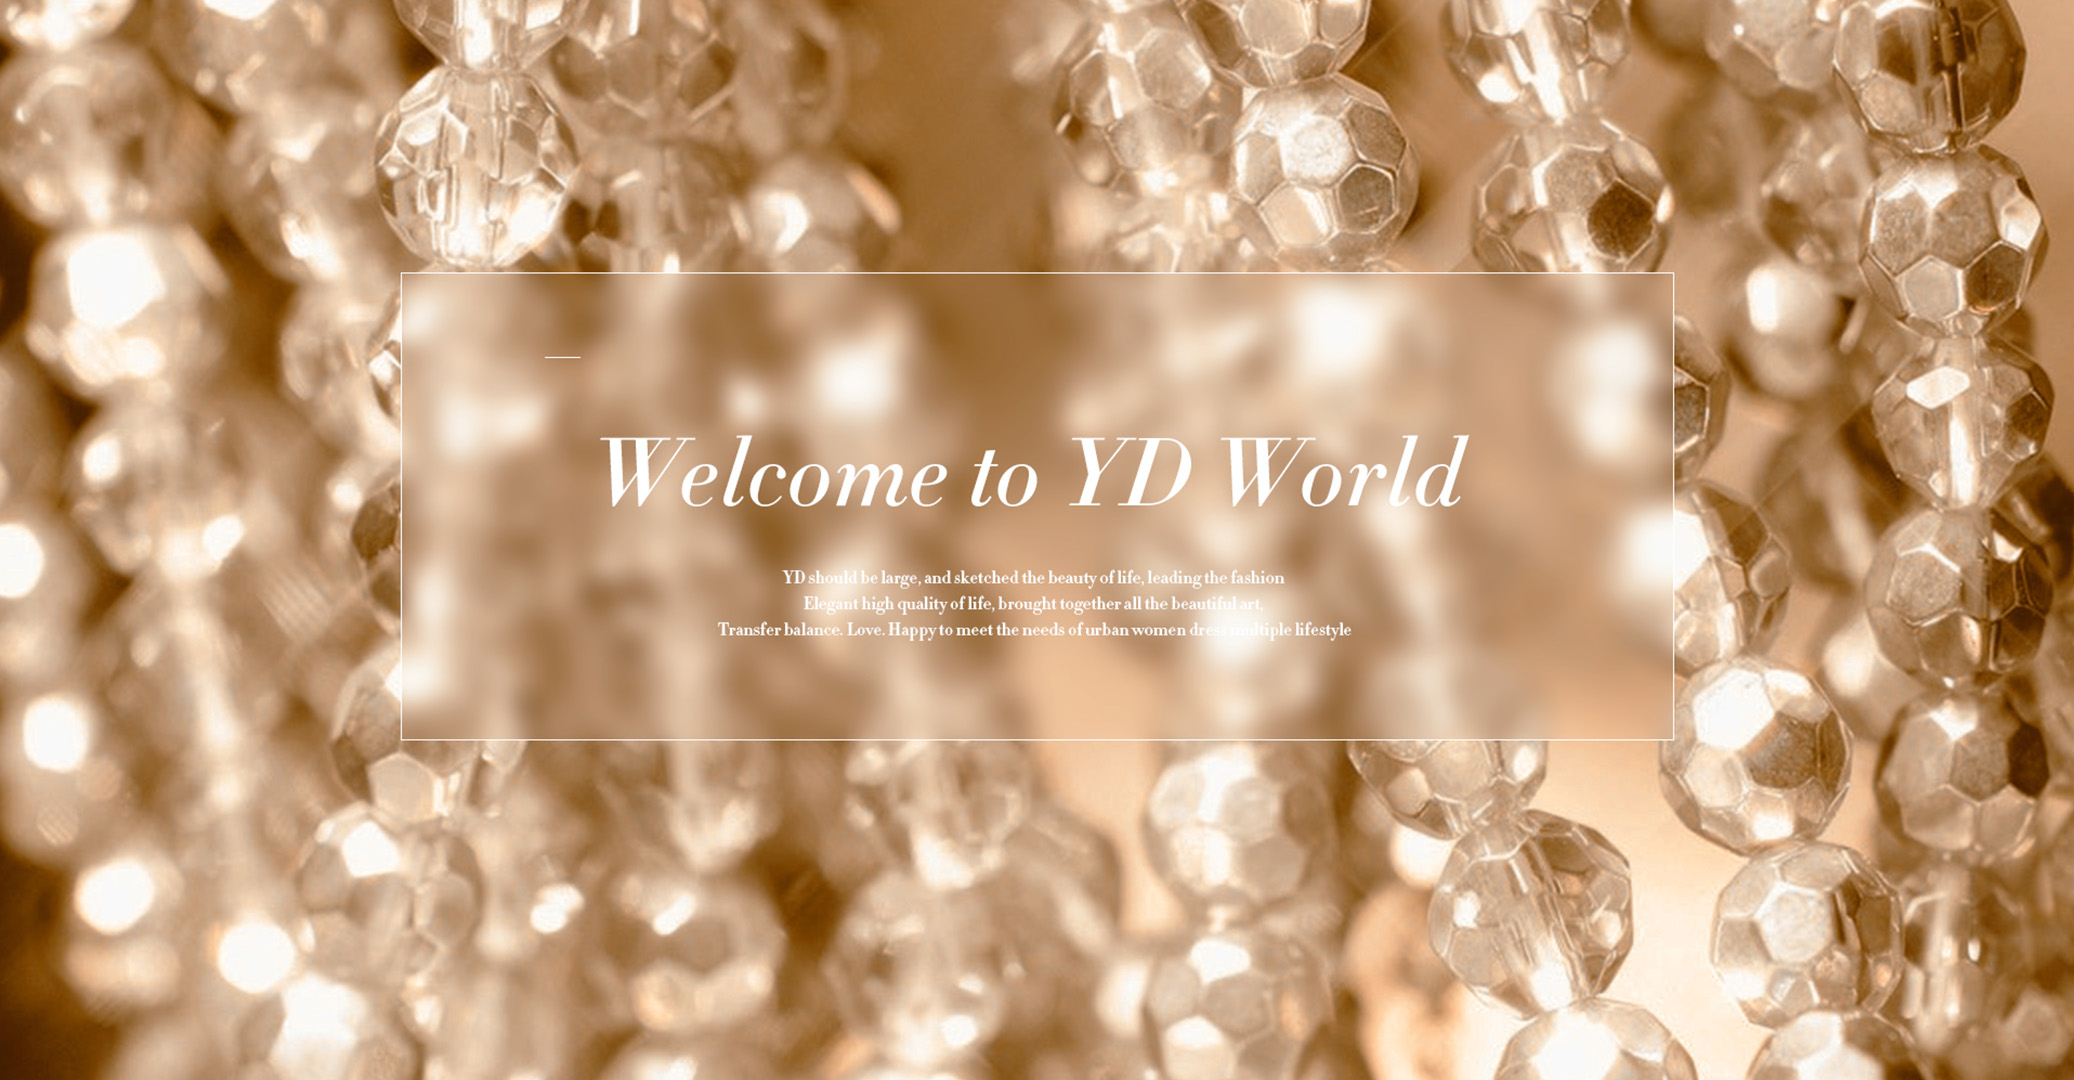
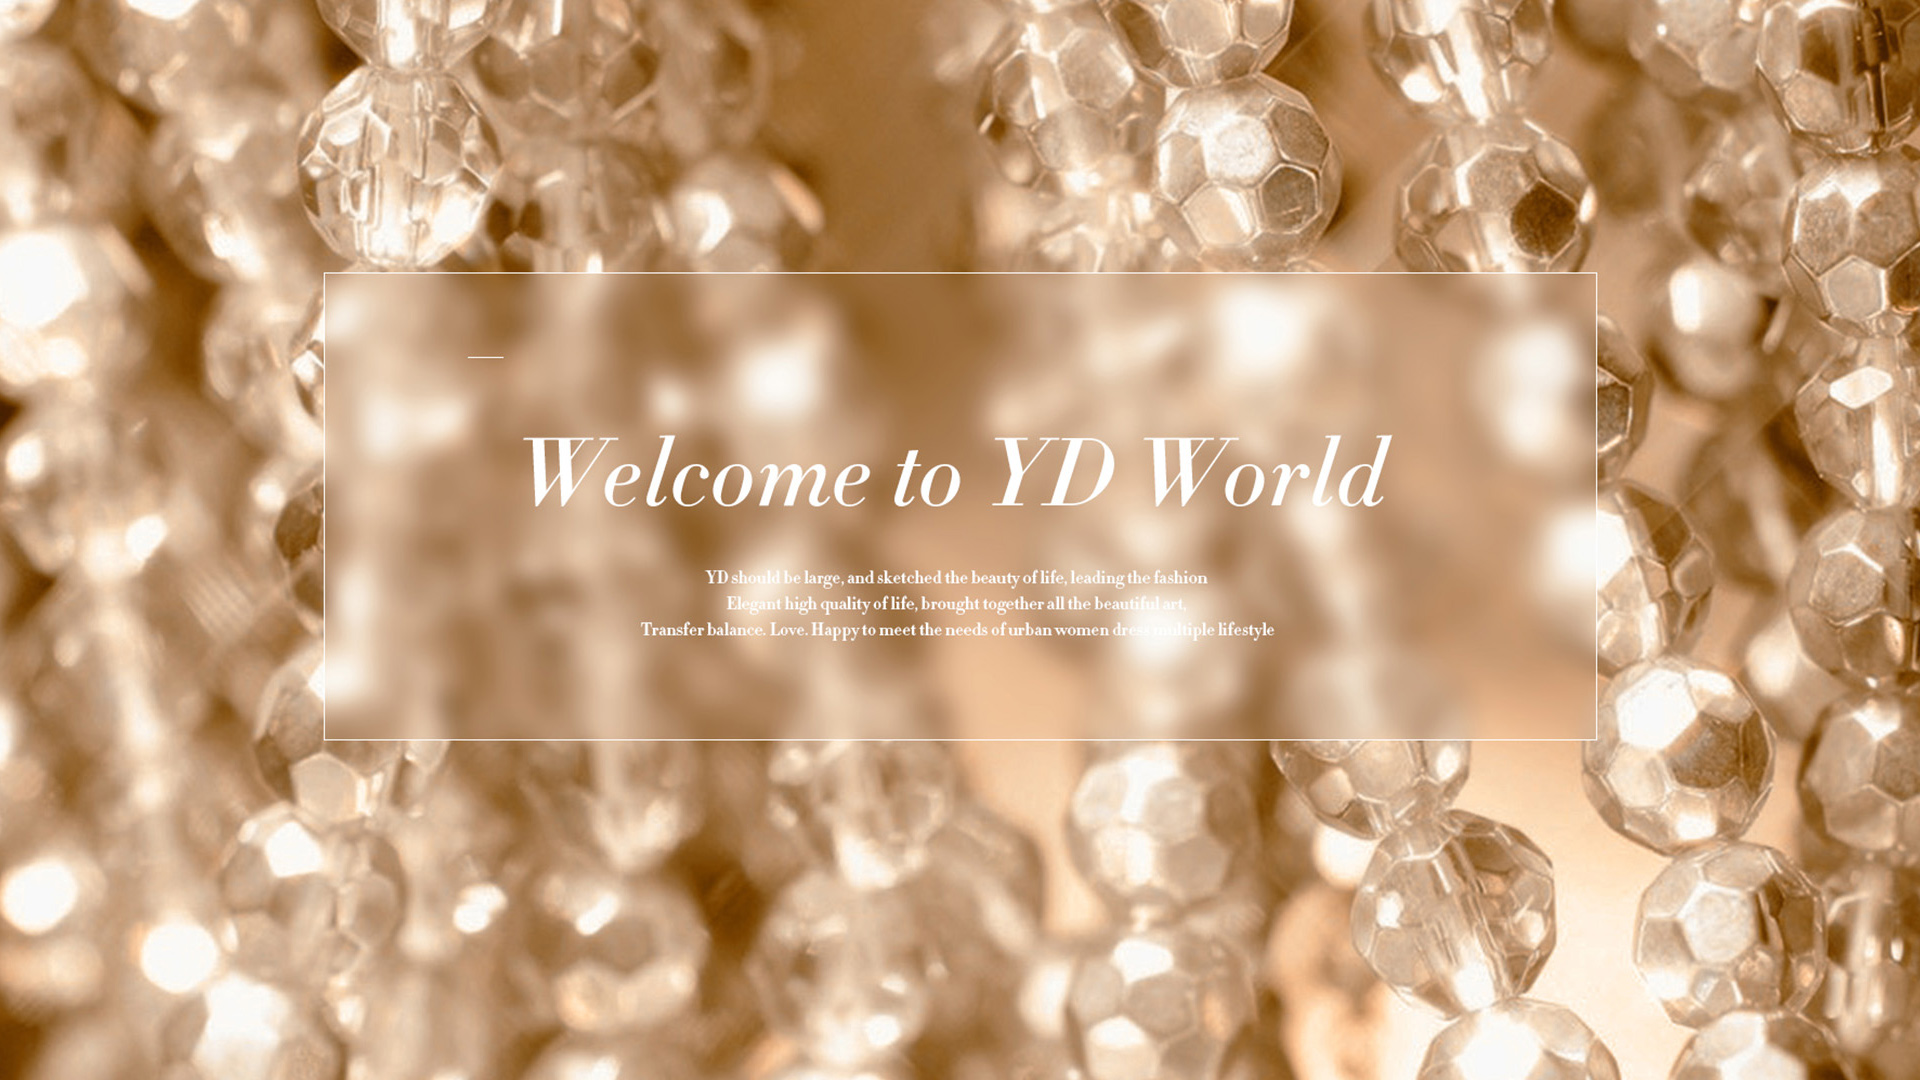
大美页面优化

diff --git a/src/javascript/others/main.js b/src/javascript/others/main.js
@@ -212,7 +212,7 @@ require(['jquery'], function ($) {
                     var marginLeft=-(img.width()-$(window).width())/2;
 //                    if()
                     img.css('marginLeft',marginLeft);
-                    console.log(marginLeft);
+//                    console.log(marginLeft);
                 }
             };
             picSize();

diff --git a/src/sass/pages/_beautifulbig.scss b/src/sass/pages/_beautifulbig.scss
@@ -1,8 +1,8 @@
 @charset "UTF-8"; 
 .g-main-gf {
   height: 100%;
-  background: url('../images/damei-bg.png') center center;
-  overflow: hidden;
+//  background: url('../images/damei-bg.png') center center;
+//  overflow: hidden;
   .set_table {
     display: table;
     height: 100%;

diff --git a/src/web-brand/beautifulbig.html b/src/web-brand/beautifulbig.html
@@ -85,7 +85,6 @@
     </div>
 </div>
 <div class="m-nav-list-bg"></div>
-
 <div class="g-main-gf">
     <div class="set_table" style="width:100%">
         <div class="g-maininner-gf" >
